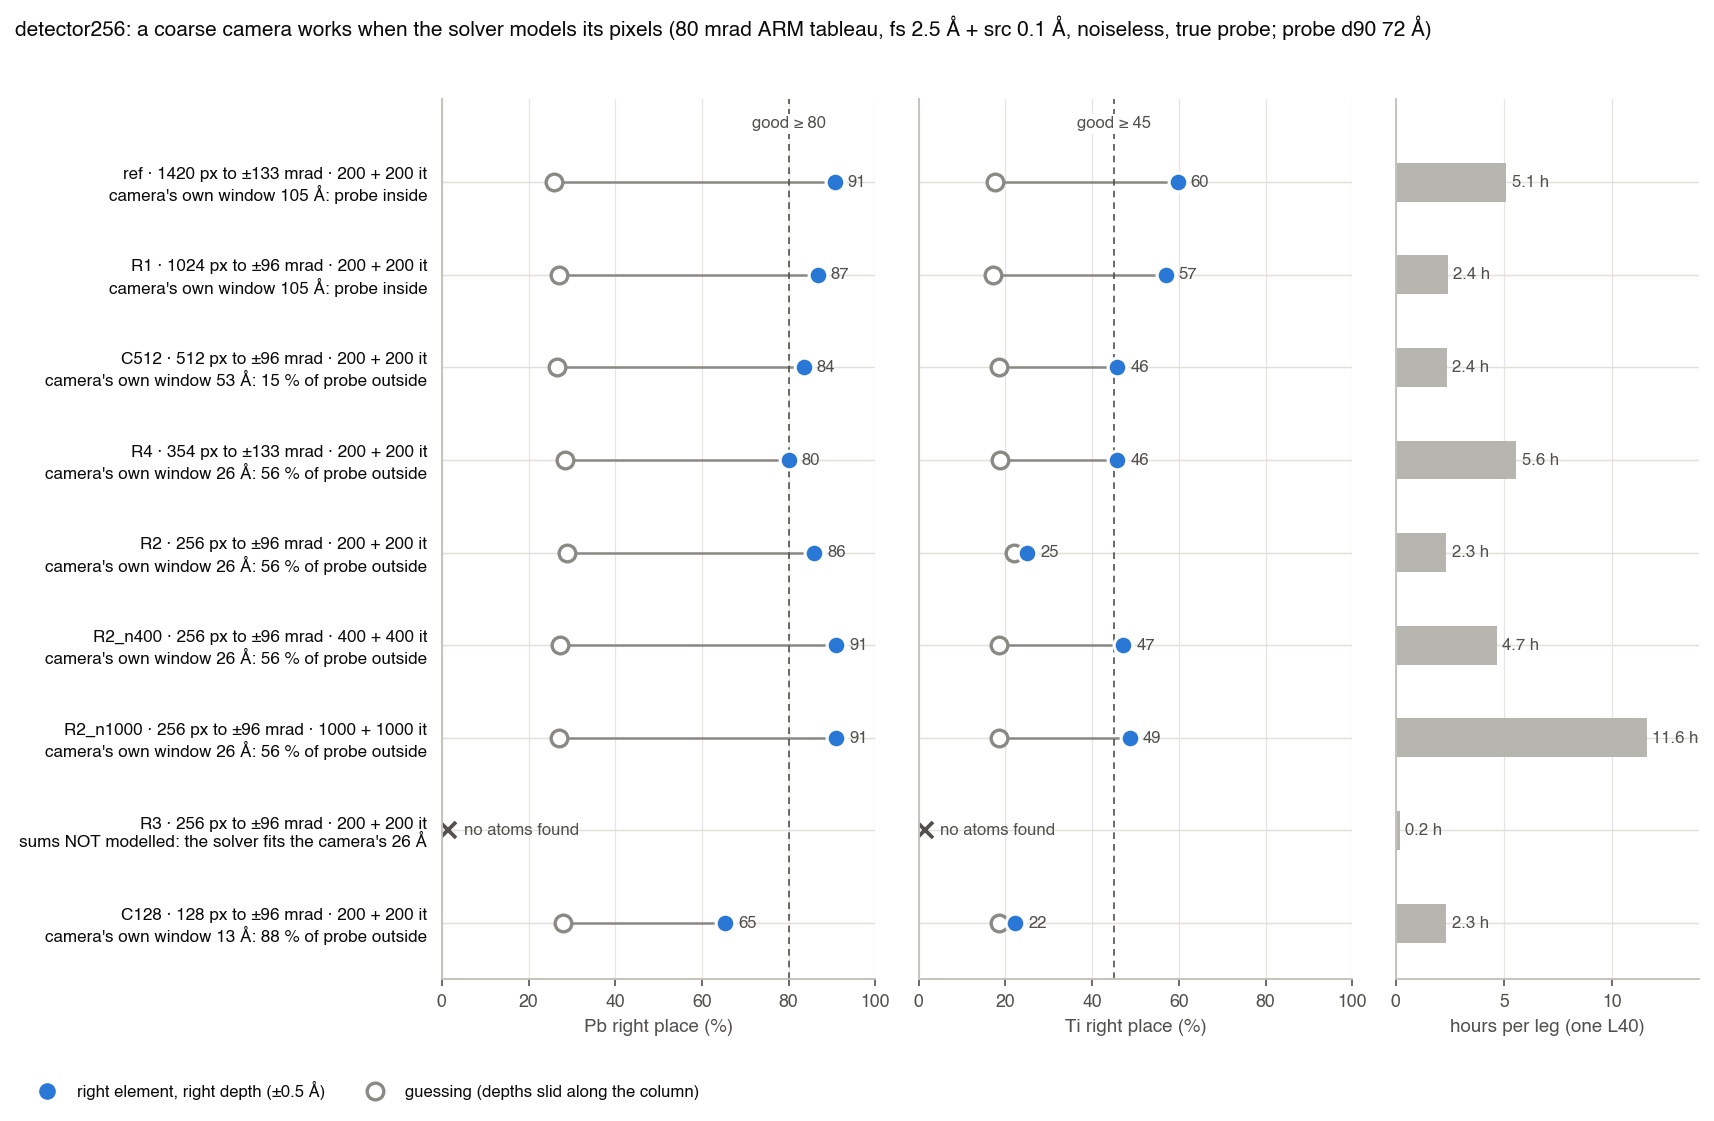
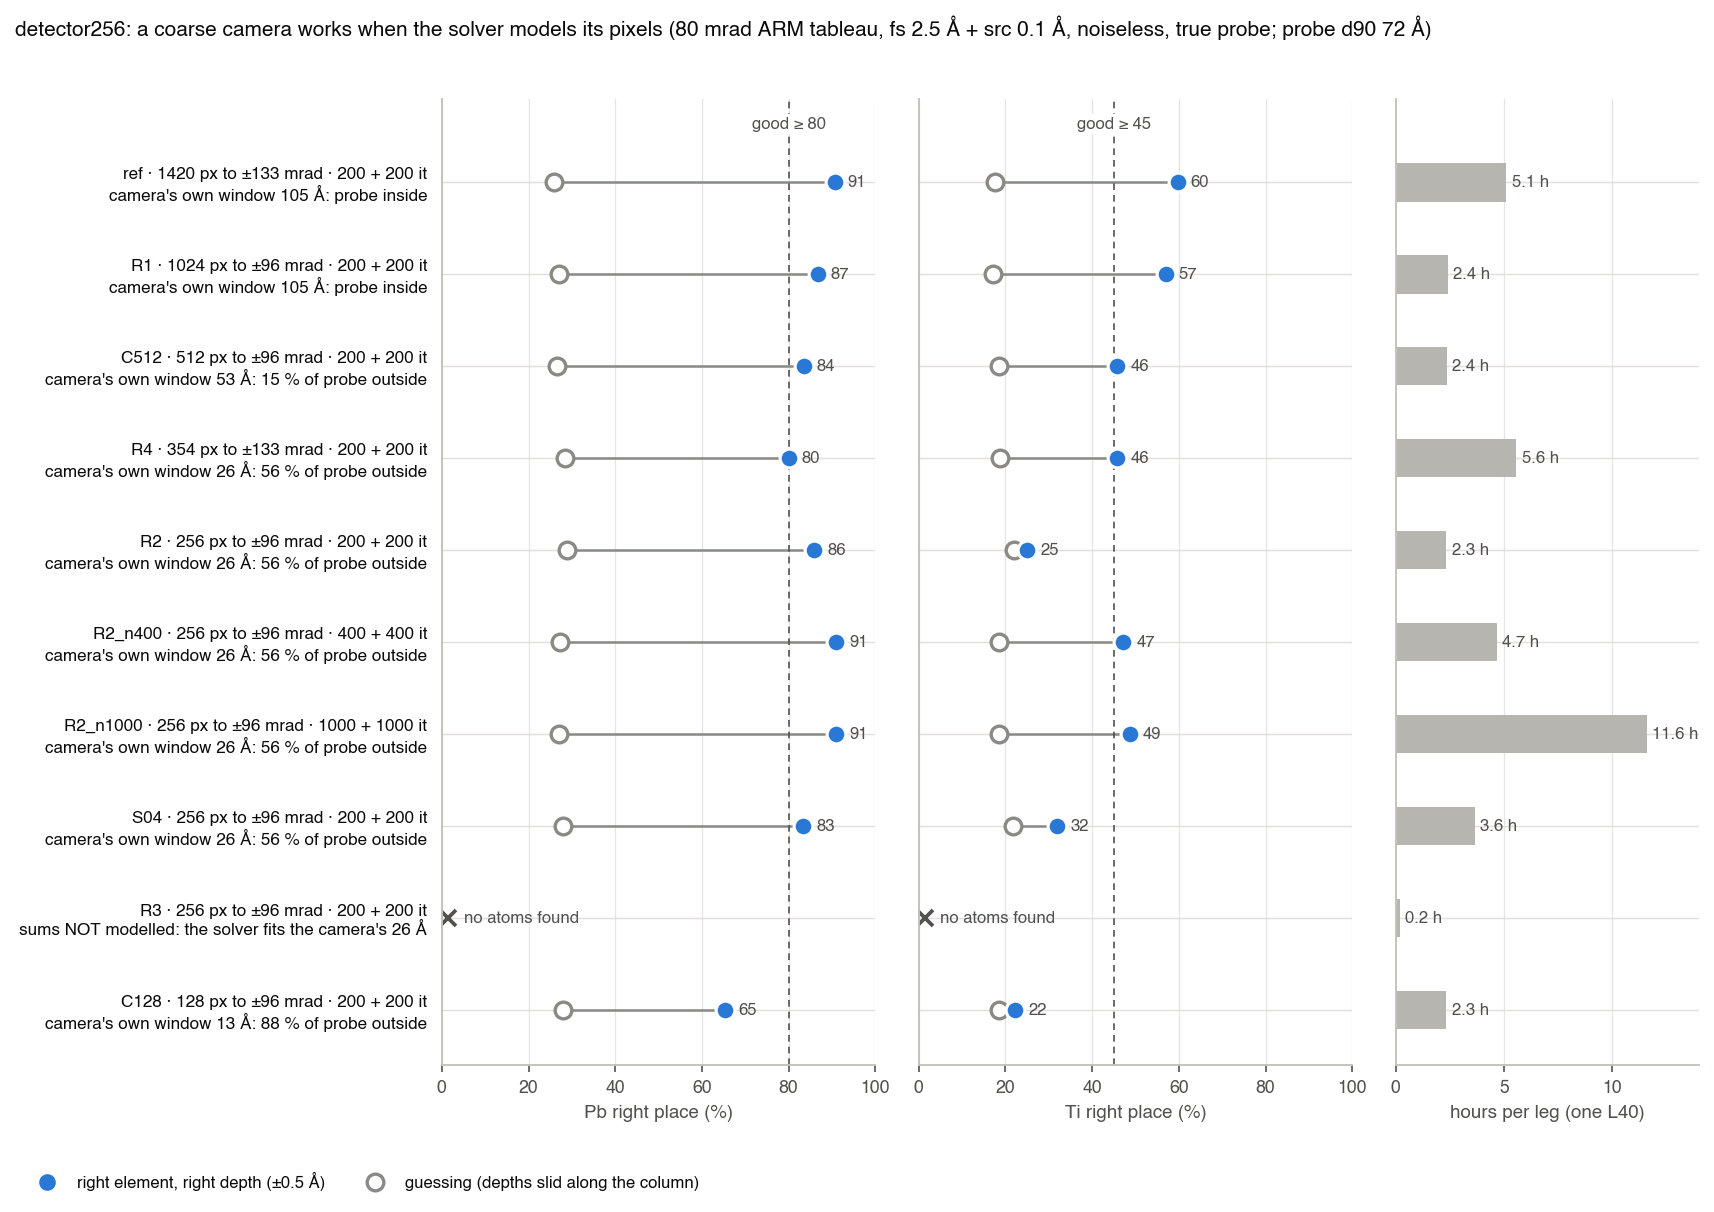
detector256: S04 scored -- a denser scan barely helps Ti (32 vs 25 %); iterations are the lever on a 256-px camera
S04 (256 px, +-96 mrad, upsampling 2, 0.4 A scan, 2500 positions, 200 + 200 it; new sims): Pb / Ti right 83 / 32 %
vs guessing 28 / 22 -> okay. Image clean, kernels 16 atoms centred, no NaN, 3.6 h a leg. R2_n400 reaches Ti 47 %
for 4.7 h, so iterations, not positions, buy Ti back; the brief's "denser scan first" was the wrong first move here.
At fixed iterations Ti follows pixels per pattern more than pattern count (single runs, +-4 each).

diff --git a/aberration_experiment/detector256/README.md b/aberration_experiment/detector256/README.md
@@ -24,10 +24,10 @@ Ti.
 | R2_n1000 | 256 px, ±96 mrad | 1000 + 1000 | 26 Å (56 %) | 91 (27) | 49 (18) | 0.43 | 11.6 | good |
 | C128 | 128 px, ±96 mrad | 200 + 200 | 13 Å (88 %) | 65 (28) | 22 (18) | 0.40 | 2.3 | okay |
 | R3 | 256 px, pixels **not** modelled | 200 + 200 | 26 Å (56 %), and the solver uses it | no atoms | | 0.83 | 0.2 | failed |
-| S04 | 256 px on a 0.4 Å scan | 200 + 200 | 26 Å (56 %) | not back | | | | |
+| S04 | 256 px on a 0.4 Å scan (2500 positions) | 200 + 200 | 26 Å (56 %) | 83 (28) | 32 (22) | 0.39 | 3.6 | okay |
 
 O right (guess): reference 56 (19), R1 51 (18), C512 40 (20), R4 46 (21), R2 23 (21), R2_n400 31 (20), R2_n1000 44 (21),
-C128 31 (20). Every phase image was viewed (`results/phase/`). Each is a clean crystal with the reference's column lean
+C128 31 (20), S04 24 (20). Every phase image was viewed (`results/phase/`). Each is a clean crystal with the reference's column lean
 and quiet vacuum; C128 is a little softer, with fringes at two corners. All logs are clean: upsampling on, probe kept on
 the fine grid, no NaN, full traces. Figures: `results/det_summary.png` (one row per run, with the hours) and
 `results/det_limits.png`.
@@ -44,11 +44,17 @@ the fine grid, no NaN, full traces. Figures: `results/det_summary.png` (one row 
   about R2_n400's 4.7 h.
 - **No coarse camera has yet reached the reference's Ti.** The best is 49 % (R2_n1000) against R1's 57 and the
   reference's 60, about two standard deviations. This does not yet show missing information: R1 was not run longer,
-  and might gain too. S04, the denser scan, is the other test.
-- **S04 is still running (2026-10-27).** All three sims finished (7.2 h each, 2500 positions), and so did all three rebins.
-  The lab and Pb recons finished at 3.7 h a leg: 1.56× R2's, as the positions predict, and less than R2_n400's 4.7 h.
-  The Ti recon was 1.8 h in; its pack and then analysis 1348935 follow. The five other runs were pulled into
-  `~/Desktop/detector256_limits`; S04 goes there too.
+  and might gain too. The denser scan did not close it (S04, next).
+- **A denser scan barely helps; iterations do (S04, scored 2026-10-29).** The 256-px camera on a 0.4 Å scan
+  (2500 positions, 3.1 measurements per unknown) at 200 + 200 iterations scored Ti 32 % against R2's 25. That is
+  +7 points, about one standard deviation of the difference. Pb was 83 against 86, the same within the scatter. The
+  images and depth sections look like R2's: clean crystal, Pb on its planes, Ti depths scattered. Each leg took 3.6 h
+  (1.56× R2's, as the positions predict). For about the same cost, R2_n400 (4.7 h) reached Ti 47 %. So on a 256-px
+  camera the lever is iterations, not positions. The brief's rule ("if R2 fails, try a denser scan before anything
+  else") was the wrong first move here. S04 used new simulations of the same settings, at a different scan step.
+- **At a fixed 200 + 200 iterations, Ti follows the pixels per pattern more than the number of patterns:** 22 (128 px),
+  25 (256), 32 (256 on 2500 positions), 46 (354 to ±133), 46 (512), 57 (1024). This reading rests on single runs, each
+  ±4.
 
 ### What this overturns
 
@@ -108,7 +114,6 @@ must still be computed on the fine grid, because the physics happens there; only
 
 ### Still open
 
-- **S04** (0.4 Å scan): pull when back. It asks whether positions buy Ti faster than iterations.
 - **R1 at 400 + 400 iterations**: is 49 against 57 % a real information gap or only convergence? (no new sims: R1's
   copies.)
 - **C128 at 400 + 400 or more**: does Ti come back at 0.5 measurements per unknown?
@@ -126,8 +131,10 @@ must still be computed on the fine grid, because the physics happens there; only
   - R3 was submitted 2026-10-26 13:16 (recons 1348350 / 51 / 52, analysis 1348354) and pulled to
     `~/Desktop/detector256_r3`.
   - The limits wave was submitted 2026-10-26 22:37 (`submit_limits.sh`; tarball stamps `20261026_2237*`) and pulled to
-    `~/Desktop/detector256_limits` on 2026-10-27, all but S04. `det_look.py` (no arguments) scores everything into
-    `results/`.
+    `~/Desktop/detector256_limits` on 2026-10-27, and S04 on 2026-10-29. `det_look.py` (no arguments) scores everything
+    into `results/`. If OneDrive has made `analysis/atomfind/align.py` cloud-only, the import hangs and times out
+    (2026-10-29). The workaround is to export the package's `.py` files with `git show HEAD:<file>` to a local folder and
+    import it from there before running `det_look.py`.
 - **Submission record:**
   - R1 `_detc96`: rebin jobs 1339556 / 58 / 60 (lab / Pb / Ti), recons 1339557 / 59 / 61, pack 1339562, analysis
     1339563.
@@ -218,7 +225,8 @@ about 3 : 1.
    Pb ≥ 80 % and Ti ≥ 45 %; okay means Pb ≥ 50 %.
 
 **Success:** R2 within a few points of R1 and the reference, and as clean in the images. **If R2 fails, try a denser
-scan before anything else.** The sims are at 0.5 Å; a 0.4 Å step (2500 positions, about 3 : 1) needs new lab, Pb and
+scan before anything else.** (Tried, 2026-10-29: S04 gained little. More iterations were the lever; see the status at
+the top.) The sims are at 0.5 Å; a 0.4 Å step (2500 positions, about 3 : 1) needs new lab, Pb and
 Ti sims at this point, then a rebin and R2 again.
 
 Reference, reproduced by `det_look.py` from the pulled step-2 analysis: Pb / Ti / O right 91 / 60 / 56 % against

diff --git a/aberration_experiment/HANDOFF_MONO300.md b/aberration_experiment/HANDOFF_MONO300.md
@@ -46,7 +46,8 @@ rules), and `page/ARM_PAGE.md` (the results page and the honest atom scoring). W
   - So the window is set by the solver's grid, not the camera. "The window is set by the detector" is wrong: its home
     README lists where the repo said it.
   - Separately, cutting the recorded angle from ±133 to ±96 mrad halves a leg (5.1 → 2.4 h) at no measurable cost.
-  - S04 (0.4 Å scan) is still out.
+  - S04 (0.4 Å scan, 2026-10-29): Ti 32 % against R2's 25 at the same iterations. The lever on a 256-px camera is
+    iterations, not a denser scan.
 
 ## The goal (the user, 2026-10-12)
 
